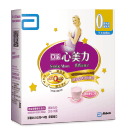
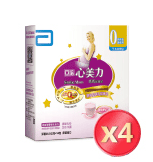
按钮样式统一&图片替换

diff --git a/src/shopping-trolley.html b/src/shopping-trolley.html
@@ -104,7 +104,7 @@
 				<input type="radio" name="st_radio" id="st_3" value="option3">
 				<label for="st_3"></label>
 			</div>
-			<img src="./images/m_product_01.png" alt="product3"></img>
+			<img src="./images/m_product_02.png" alt="product3"></img>
 		</div>
 		<div class="shopping-trolley-container_p_right">
 			<h5>心美力媽媽營養品優惠組_<em>香草+ 草莓優格</em>口味</h5>
@@ -144,7 +144,7 @@
 				<input type="radio" name="st_radio" id="st_5" value="option5">
 				<label for="st_5"></label>
 			</div>
-			<img src="./images/m_product_02.png" alt="product5"></img>
+			<img src="./images/m_product_04.png" alt="product5"></img>
 		</div>
 		<div class="shopping-trolley-container_p_right">
 			<h4>備奶優惠方案<em>（每人限購一組，兩款擇一)</em></h4>

diff --git a/src/customer.html b/src/customer.html
@@ -80,7 +80,7 @@
 
 	<div class="shopping-trolley-container_p">
 		<div class="shopping-trolley-container_p_left">
-			<img src="./images/m_product_01.png" alt="product3"></img>
+			<img src="./images/m_product_02.png" alt="product3"></img>
 		</div>
 		<div class="shopping-trolley-container_p_right">
 			<h5>心美力媽媽營養品優惠組_<em>香草+ 草莓優格</em>口味</h5>
@@ -102,7 +102,7 @@
 
 	<div class="shopping-trolley-container_p">
 		<div class="shopping-trolley-container_p_left">
-			<img src="./images/m_product_02.png" alt="product5"></img>
+			<img src="./images/m_product_04.png" alt="product5"></img>
 		</div>
 		<div class="shopping-trolley-container_p_right">
 			<h4>備奶優惠方案<em>（每人限購一組，兩款擇一)</em></h4>

diff --git a/src/css/reservations.css b/src/css/reservations.css
@@ -3,6 +3,9 @@ html{
     overflow-x: hidden;
     outline: none;
 }
+*{
+    outline: none;
+}
 body {
     margin:0;
     padding: 0;
@@ -163,7 +166,9 @@ body {
 .btn-gray,.btn-orange{
     width: 120px;
     height: 32px;
-    color: #fff;
+    color: #fff!important;
+    border-radius: 10px;
+    border: 0;
 }
 .btn{
     padding: 0;
@@ -173,8 +178,19 @@ body {
 
 }
 .btn-orange{
-    background-color: #f59400;
+    background-color: #ffd9a0;
 }
+.btn-orange:focus{
+    background-color: #f59300;
+}
+.btn.active.focus,
+ .btn.active:focus,
+  .btn.focus,
+   .btn:active.focus,
+    .btn:active:focus,
+     .btn:focus{
+         outline: none;
+     }
 
 
 /*底部版权*/

diff --git a/src/css/questionnaire.css b/src/css/questionnaire.css
@@ -3,6 +3,9 @@ html{
     overflow-x: hidden;
     outline: none;
 }
+*{
+    outline: none;
+}
 body {
     margin:0;
     padding: 0;
@@ -265,7 +268,9 @@ body {
 .btn-gray,.btn-orange{
     width: 120px;
     height: 32px;
-    color: #fff;
+    color: #fff!important;
+    border-radius: 10px;
+    border: 0;
 }
 .btn{
     padding: 0;
@@ -275,8 +280,19 @@ body {
 
 }
 .btn-orange{
-    background-color: #f59400;
+    background-color: #ffd9a0;
 }
+.btn-orange:focus{
+    background-color: #f59300;
+}
+.btn.active.focus,
+ .btn.active:focus,
+  .btn.focus,
+   .btn:active.focus,
+    .btn:active:focus,
+     .btn:focus{
+         outline: none;
+     }
 
 
 

diff --git a/src/css/sign-in.css b/src/css/sign-in.css
@@ -3,6 +3,9 @@ html{
     overflow-x: hidden;
     outline: none;
 }
+*{
+    outline: none;
+}
 body {
     margin:0;
     padding: 0;
@@ -117,12 +120,16 @@ body {
 .btn-lg-purpel{
     width: 100%;
     color: #fff;
-    background-color: #A666B1;
+    background-color: #a766af;
+    border: 0;
     height: 45px;
-    border-radius: 7px;
+    border-radius: 10px;
     margin: 5px 0 15px 0;
     font-size: 17px;
     font-weight: lighter;
+}
+.btn-lg-purpel:focus{
+    background-color: #64167d;
 }
 /*p2*/
 .sign-in-container-p2 > div{

diff --git a/src/css/forget.css b/src/css/forget.css
@@ -4,6 +4,9 @@ html{
     outline: none;
     overflow-y: hidden;
 }
+*{
+    outline: none;
+}
 body {
     margin:0;
     padding: 0;
@@ -142,12 +145,16 @@ body {
 .btn-lg-orange{
     width: 100%;
     color: #fff;
-    background-color: #F49401;
+    background-color: #ffd9a0;
+    border: none;
     height: 45px;
-    border-radius: 7px;
+    border-radius: 10px;
     margin: 5px 0 15px 0;
     font-size: 17px;
     font-weight: lighter;
+}
+.btn-lg-orange:focus{
+    background-color: #f59300;
 }
 
 /*底部版权*/

diff --git a/src/css/log-in.css b/src/css/log-in.css
@@ -1,6 +1,8 @@
 html{
     font-size: 16px;
     overflow-x: hidden;
+}
+*{
     outline: none;
 }
 body {
@@ -142,12 +144,16 @@ body {
 .btn-lg-orange{
     width: 100%;
     color: #fff;
-    background-color: #F49401;
+    background-color: #ffd9ad;
     height: 45px;
-    border-radius: 7px;
+    border-radius: 10px;
+    border: none;
     margin: 5px 0 15px 0;
     font-size: 17px;
     font-weight: lighter;
+}
+.btn-lg-orange:focus{
+    background-color: #f59300;
 }
 
 /*底部版权*/

diff --git a/src/css/complete.css b/src/css/complete.css
@@ -4,6 +4,9 @@ html{
     outline: none;
     overflow-y: hidden;
 }
+*{
+    outline: none;
+}
 body {
     margin:0;
     padding: 0;
@@ -141,9 +144,10 @@ body {
 .btn-md-orange{
     width: 35%;
     color: #fff;
-    background-color: #F49401;
+    background-color: #f59300;
+    border: 0;
     height: 40px;
-    border-radius: 7px;
+    border-radius: 10px;
     margin: 5px 0 15px 0;
     font-size: 15px;
     font-weight: lighter;

diff --git a/src/css/shopping-trolley.css b/src/css/shopping-trolley.css
@@ -178,12 +178,12 @@ body {
     position: absolute;
 }
 .shopping-trolley-container_p_left > img{
-    width: 60%;
+    width: 70%;
     position: relative;
     left: 25%;
     top: 30%;
-    padding-top: 20px;
-    padding-bottom: 20px;
+    padding-top: 15px;
+    padding-bottom: 15px;
 }
 .shopping-trolley-container_p_right > h5,
 .shopping-trolley-container_p_right > h4

diff --git a/src/css/customer.css b/src/css/customer.css
@@ -162,12 +162,11 @@ body {
     position: absolute;
 }
 .shopping-trolley-container_p_left > img{
-    width: 60%;
+    width: 70%;
     position: relative;
-    left: 25%;
+    left: 15%;
     top: 30%;
-    padding-top: 20px;
-    padding-bottom: 20px;
+    padding-top: 10px;
 }
 .shopping-trolley-container_p_right > h5,
 .shopping-trolley-container_p_right > h4
